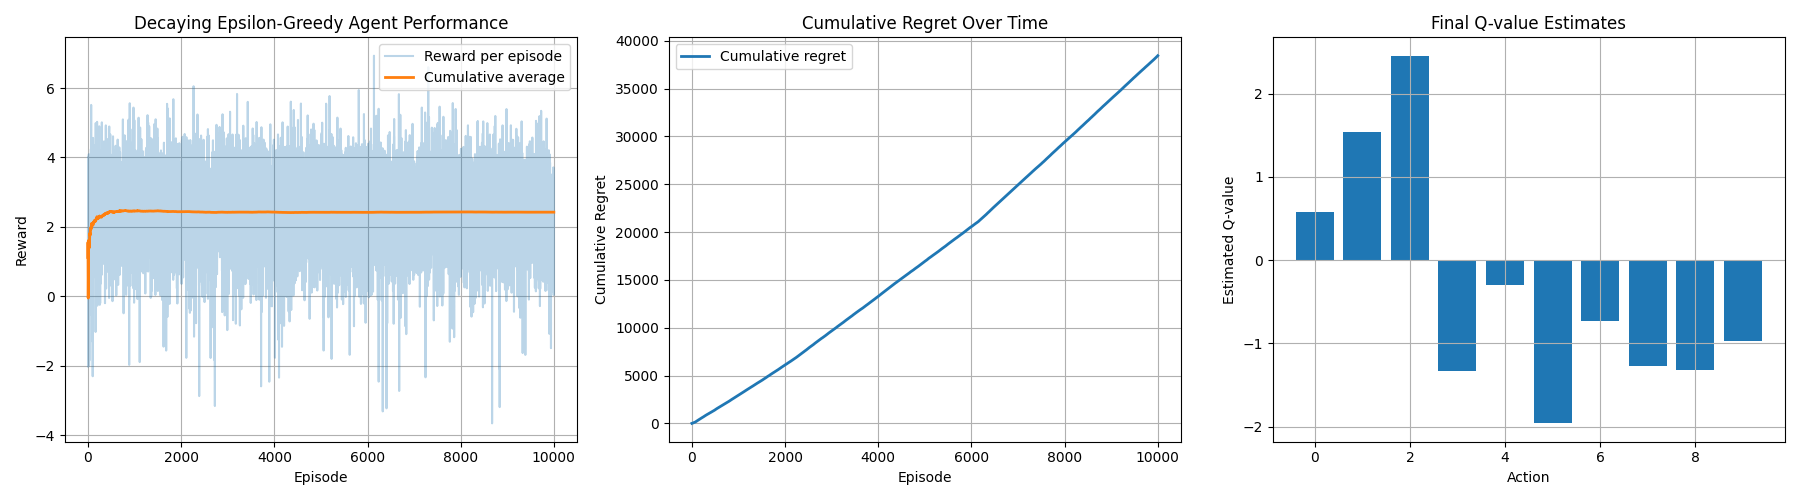
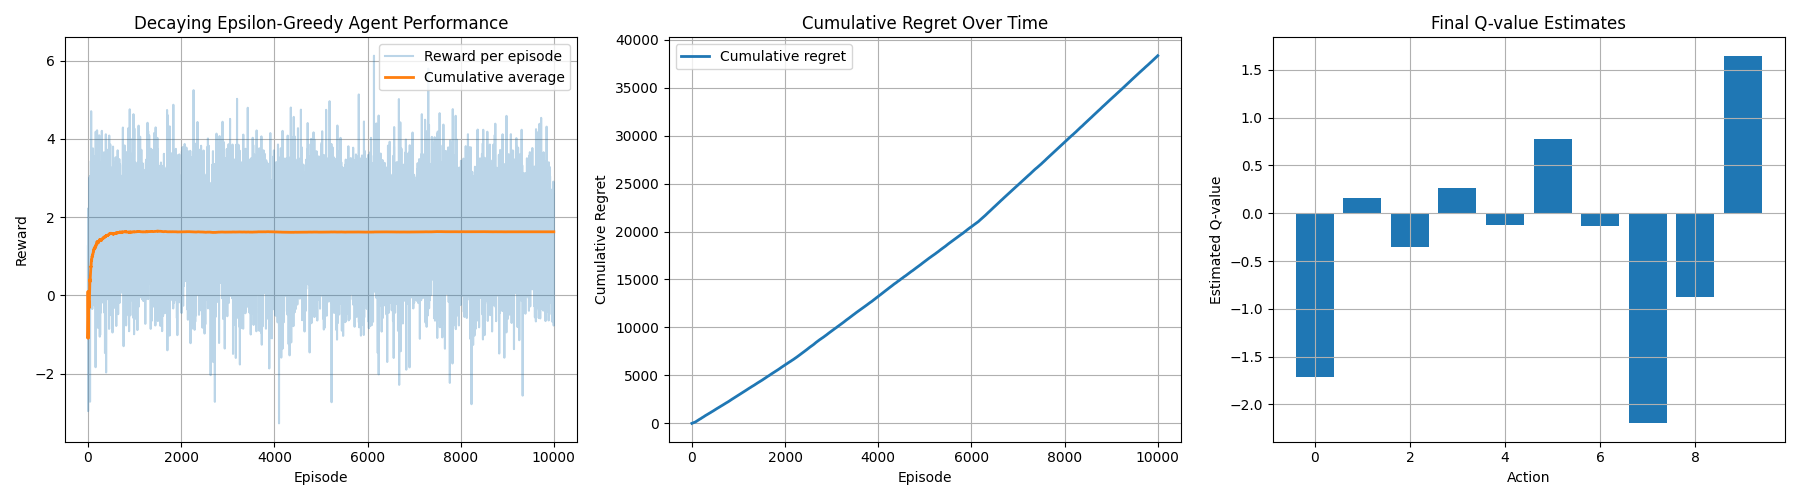
Enhance training functions for epsilon-greedy, decaying epsilon-greedy, and Thompson sampling agents by adding cumulative regret visualizations. Update result saving paths for clarity and consistency. Introduce fast decay options for the decaying epsilon-greedy agent to improve exploration strategie

diff --git a/ucb1.py b/ucb1.py
@@ -5,51 +5,45 @@ import gym_bandits
 import numpy as np
 import matplotlib.pyplot as plt
 
-class GreedyAgent:
+class UCB1Agent:
     def __init__(self, n_actions):
         # super().__init__()
         self.n_actions = n_actions
-        self.q_values = np.zeros(n_actions)
+        # self.q_values = np.zeros(n_actions)
         self.action_counts = np.zeros(n_actions)
+        self.total_rewards = np.zeros(n_actions)
+        self.avg_rewards = np.zeros(n_actions)
+        self.t = 0
 
-    def select_action(self, epsilon):
-        if np.random.rand() < epsilon:
-            return np.random.randint(self.n_actions)
-        else:
-            return np.argmax(self.q_values)
+    def select_action(self):
+        self.t += 1
+        if self.t <= self.n_actions:
+          return self.t - 1
+
+        ucb_values = self.avg_rewards + np.sqrt(2 * np.log(self.t) / self.action_counts)
+        return np.argmax(ucb_values)
 
     def update_estimates(self, action, reward):
         self.action_counts[action] += 1
-        n = self.action_counts[action]
-        self.q_values[action] += (reward - self.q_values[action]) / n
+        self.total_rewards[action] += reward
+        self.avg_rewards[action] = self.total_rewards[action] / self.action_counts[action]
 
-def train_decaying_epsilon_greedy_agent(env_name='BanditTenArmedGaussian-v0', n_episodes=1000, use_fast_decay=False, decay_type='multiplicative'):
+def train_ucb1_agent(env_name='BanditTenArmedGaussian-v0', n_episodes=1000):
     env = gym.make(env_name)
     n_actions = env.action_space.n
-    agent = GreedyAgent(n_actions)
+    agent = UCB1Agent(n_actions)
 
     rewards = []
     cumulative_avg_rewards = []
     regrets = []
     cumulative_regret = []
-    optimal_pulls = []
 
     env.reset()
     np.random.seed(42)
 
-    epsilon_0 = 0.1
-    if use_fast_decay:
-        if decay_type == 'multiplicative':
-            decay_rate = 0.995
-        else:
-            decay_rate = 0.001
-        epsilon = epsilon_0
-    else:
-        epsilon = 0.1
-        decay_rate = 0.01
-
     true_means = env.means if hasattr(env, 'means') else None
     if true_means is None:
+        # try alternative attribute names
         true_means = getattr(env, 'mu', None)
     if true_means is None:
         # if we can't get true means, we'll estimate optimal reward from observed rewards
@@ -58,23 +52,11 @@ def train_decaying_epsilon_greedy_agent(env_name='BanditTenArmedGaussian-v0', n_
         true_means = None
 
     optimal_reward = np.max(true_means) if true_means is not None else None
-    optimal_action = np.argmax(true_means) if true_means is not None else None
 
     for episode in range(n_episodes):
-        if episode > 1:
-            if use_fast_decay:
-                if decay_type == 'multiplicative':
-                    epsilon = epsilon_0 * (decay_rate ** episode)
-                else:
-                    epsilon = epsilon_0 / (1 + decay_rate * episode)
-            else:
-                epsilon = max(0.01, epsilon * (1 - decay_rate))
-        action = agent.select_action(epsilon)
+        action = agent.select_action()
         reward = env.step(action)[1]
         agent.update_estimates(action, reward)
-
-        if optimal_action is not None:
-            optimal_pulls.append(1 if action == optimal_action else 0)
 
         rewards.append(reward)
         cumulative_avg = np.mean(rewards)
@@ -98,7 +80,7 @@ def train_decaying_epsilon_greedy_agent(env_name='BanditTenArmedGaussian-v0', n_
         plt.axhline(y=optimal_reward, color='r', linestyle='--', label='Optimal reward', linewidth=2)
     plt.xlabel('Episode')
     plt.ylabel('Reward')
-    plt.title('Decaying Epsilon-Greedy Agent Performance')
+    plt.title('UCB1 Agent Performance')
     plt.legend()
     plt.grid(True)
 
@@ -111,17 +93,17 @@ def train_decaying_epsilon_greedy_agent(env_name='BanditTenArmedGaussian-v0', n_
     plt.grid(True)
 
     plt.subplot(1, 3, 3)
-    plt.bar(range(n_actions), agent.q_values)
+    plt.bar(range(n_actions), agent.avg_rewards, alpha=0.5)
     plt.xlabel('Action')
-    plt.ylabel('Estimated Q-value')
-    plt.title('Final Q-value Estimates')
+    plt.ylabel('Estimated Avg Reward')
+    plt.title('Final Avg Reward Estimates')
     if true_means is not None:
-        plt.plot(range(n_actions), true_means, 'ro', label='True means', markersize=8)
+        plt.plot(range(n_actions), true_means, 'ro', label='True means', markersize=8, alpha=0.5)
         plt.legend()
     plt.grid(True)
 
     plt.tight_layout()
-    plt.savefig('decaying_epsilon_greedy_agent_results.png')
+    plt.savefig('ucb1_agent_results.png')
     # plt.show()
 
     plt.figure(figsize=(10, 6))
@@ -129,21 +111,17 @@ def train_decaying_epsilon_greedy_agent(env_name='BanditTenArmedGaussian-v0', n_
     plt.plot(time_steps, cumulative_regret, linewidth=2, label='Total Regret')
     plt.xlabel('Time-steps')
     plt.ylabel('Total Regret')
-    plt.title('Total Regret vs Time-steps - Decaying Epsilon-Greedy Agent')
+    plt.title('Total Regret vs Time-steps - UCB1 Agent')
     plt.legend()
     plt.grid(True)
     plt.tight_layout()
-    plt.savefig('results/decaying_epsilon_greedy_total_regret.png')
+    plt.savefig('results/ucb1_total_regret.png')
     plt.close()
-
-    if optimal_pulls and len(optimal_pulls) > 0:
-        final_optimal_pct = np.mean(optimal_pulls[-100:]) * 100 if len(optimal_pulls) >= 100 else np.mean(optimal_pulls) * 100
-        print(f"Final optimal pulls: {final_optimal_pct:.1f}%")
 
     return agent, cumulative_regret[-1] if cumulative_regret else 0
 
 if __name__ == "__main__":
-    trained_agent, final_regret = train_decaying_epsilon_greedy_agent(n_episodes=10000)
-    print(f"Final q_values: {trained_agent.q_values}")
+    trained_agent, final_regret = train_ucb1_agent(n_episodes=10000)
+    print(f"Final avg_rewards: {trained_agent.avg_rewards}")
     print(f"Action counts: {trained_agent.action_counts}")
     print(f"Final cumulative regret: {final_regret:.2f}")

diff --git a/thompson_sampling.py b/thompson_sampling.py
@@ -134,6 +134,18 @@ def train_thompson_sampling_agent(env_name='BanditTenArmedGaussian-v0', n_episod
     plt.savefig('thompson_sampling_agent_results.png')
     # plt.show()
 
+    plt.figure(figsize=(10, 6))
+    time_steps = range(len(cumulative_regret))
+    plt.plot(time_steps, cumulative_regret, linewidth=2, label='Total Regret')
+    plt.xlabel('Time-steps')
+    plt.ylabel('Total Regret')
+    plt.title('Total Regret vs Time-steps - Thompson Sampling Agent')
+    plt.legend()
+    plt.grid(True)
+    plt.tight_layout()
+    plt.savefig('results/thompson_sampling_total_regret.png')
+    plt.close()
+
     return agent, cumulative_regret[-1] if cumulative_regret else 0
 
 if __name__ == "__main__":

diff --git a/epsilon_greedy.py b/epsilon_greedy.py
@@ -102,6 +102,18 @@ def train_epsilon_greedy_agent(env_name='BanditTenArmedGaussian-v0', n_episodes=
     plt.savefig('epsilon_greedy_agent_results.png')
     # plt.show()
 
+    plt.figure(figsize=(10, 6))
+    time_steps = range(len(cumulative_regret))
+    plt.plot(time_steps, cumulative_regret, linewidth=2, label='Total Regret')
+    plt.xlabel('Time-steps')
+    plt.ylabel('Total Regret')
+    plt.title('Total Regret vs Time-steps - Epsilon-Greedy Agent')
+    plt.legend()
+    plt.grid(True)
+    plt.tight_layout()
+    plt.savefig('results/epsilon_greedy_total_regret.png')
+    plt.close()
+
     return agent, cumulative_regret[-1] if cumulative_regret else 0
 
 if __name__ == "__main__":

diff --git a/greedy.py b/greedy.py
@@ -98,6 +98,18 @@ def train_greedy_agent(env_name='BanditTenArmedGaussian-v0', n_episodes=1000):
     plt.savefig('greedy_agent_results.png')
     # plt.show()
 
+    plt.figure(figsize=(10, 6))
+    time_steps = range(len(cumulative_regret))
+    plt.plot(time_steps, cumulative_regret, linewidth=2, label='Total Regret')
+    plt.xlabel('Time-steps')
+    plt.ylabel('Total Regret')
+    plt.title('Total Regret vs Time-steps - Greedy Agent')
+    plt.legend()
+    plt.grid(True)
+    plt.tight_layout()
+    plt.savefig('results/greedy_total_regret.png')
+    plt.close()
+
     return agent, cumulative_regret[-1] if cumulative_regret else 0
 
 if __name__ == "__main__":

diff --git a/test.py b/test.py
@@ -4,4 +4,19 @@ import gym_bandits
 env = gym.make('BanditTenArmedGaussian-v0')
 env.reset()
 
-print(str(env.unwrapped['BanditTenArmedGaussian']))
+
+base_env = env.unwrapped
+print("Dir of unwrapped env:", dir(base_env))
+
+for attr in dir(base_env):
+  if attr not startswith('_'):
+    if atrr == 'means':
+      print(getattr(base_env, attr))
+    elif attr == 'mu':
+      print(getattr(base_env, attr))
+    else:
+      try:
+        base_env = base_env.attr
+      except:
+        pass
+        
